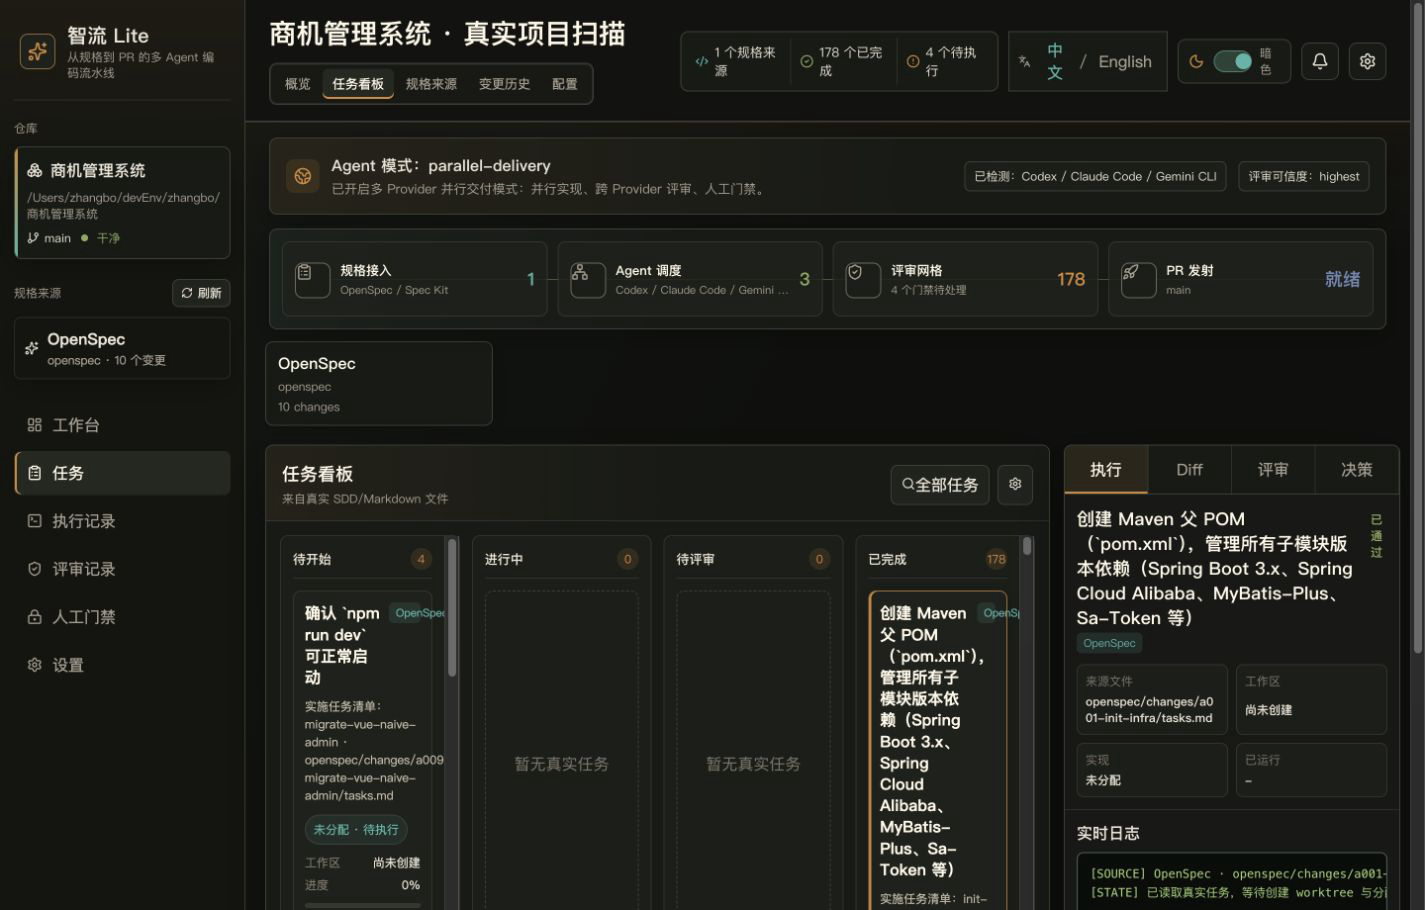
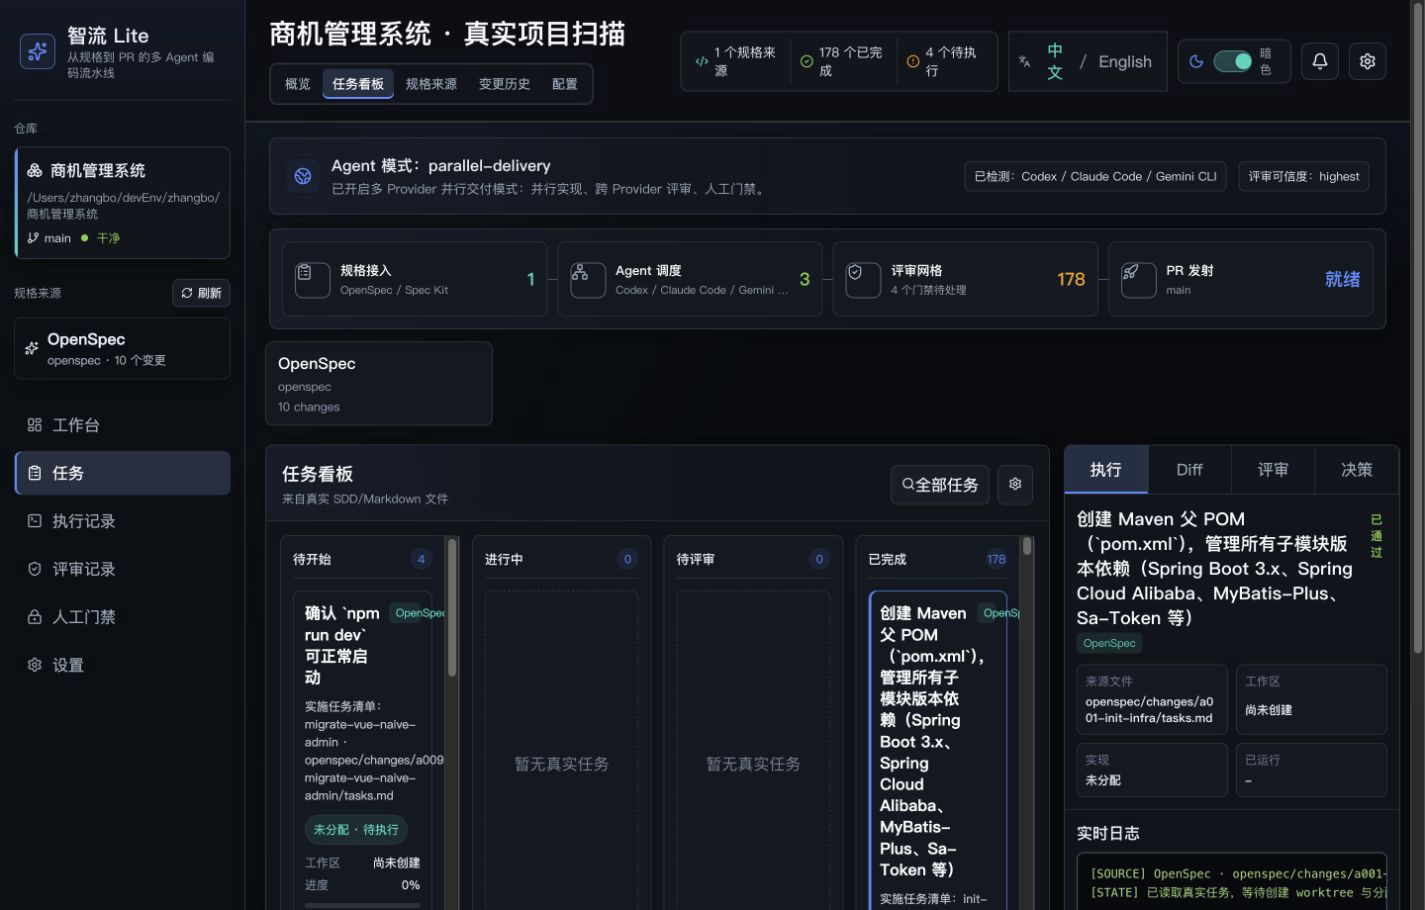
Refine editor-grade color palette

diff --git a/src/styles.css b/src/styles.css
@@ -2459,3 +2459,197 @@ progress::-webkit-progress-value {
     grid-template-columns: minmax(0, 1fr) minmax(300px, 340px);
   }
 }
+
+/* Color correction: cleaner editor-grade palette */
+:root,
+:root[data-theme="dark"] {
+  --bg: #090b10;
+  --body-gradient:
+    linear-gradient(180deg, rgba(91, 140, 255, 0.1), transparent 300px),
+    linear-gradient(120deg, rgba(45, 212, 191, 0.06), transparent 46%);
+  --shell: #0c0f14;
+  --topbar: rgba(12, 15, 20, 0.96);
+  --panel: #11151c;
+  --panel-2: #151a22;
+  --panel-3: #1b222c;
+  --panel-alpha: rgba(17, 21, 28, 0.98);
+  --surface: #1f2630;
+  --surface-soft: #141922;
+  --button-bg: #181e27;
+  --terminal-bg: #070a0f;
+  --progress-bg: #2a3340;
+  --line: #2a3441;
+  --line-soft: rgba(214, 224, 238, 0.1);
+  --text: #e7edf5;
+  --text-strong: #f8fafc;
+  --muted: #98a6b8;
+  --quiet: #738195;
+  --task-copy: #b8c2cf;
+  --cyan: #2dd4bf;
+  --green: #7ccf48;
+  --amber: #f59e0b;
+  --red: #f87171;
+  --blue: #5b8cff;
+  --shadow-heavy: 0 18px 52px rgba(0, 0, 0, 0.3);
+  --shadow-tight: 0 8px 24px rgba(0, 0, 0, 0.2);
+}
+
+:root[data-theme="light"] {
+  --bg: #f6f8fc;
+  --body-gradient:
+    linear-gradient(180deg, rgba(91, 140, 255, 0.1), transparent 280px),
+    linear-gradient(120deg, rgba(45, 212, 191, 0.055), transparent 48%);
+  --shell: #eef2f7;
+  --topbar: rgba(250, 252, 255, 0.96);
+  --panel: #fbfcff;
+  --panel-2: #f4f7fb;
+  --panel-3: #edf2f8;
+  --panel-alpha: rgba(251, 252, 255, 0.98);
+  --surface: #eaf0f7;
+  --surface-soft: #f3f6fb;
+  --button-bg: #f7f9fd;
+  --terminal-bg: #10151d;
+  --progress-bg: #d8e1ec;
+  --line: #d4dce8;
+  --line-soft: rgba(31, 41, 55, 0.1);
+  --text: #202938;
+  --text-strong: #0f172a;
+  --muted: #64748b;
+  --quiet: #8792a3;
+  --task-copy: #475569;
+  --cyan: #0f9f8f;
+  --green: #268f45;
+  --amber: #d97706;
+  --red: #dc2626;
+  --blue: #2563eb;
+  --shadow-heavy: 0 18px 48px rgba(15, 23, 42, 0.12);
+  --shadow-tight: 0 8px 22px rgba(15, 23, 42, 0.08);
+}
+
+body {
+  background: var(--body-gradient), var(--bg);
+}
+
+body::before {
+  background:
+    repeating-linear-gradient(90deg, color-mix(in srgb, var(--blue) 6%, transparent) 0 1px, transparent 1px 72px),
+    repeating-linear-gradient(0deg, color-mix(in srgb, var(--cyan) 5%, transparent) 0 1px, transparent 1px 72px);
+  mask-image: linear-gradient(180deg, rgba(0, 0, 0, 0.55), transparent 78%);
+}
+
+.app-shell {
+  background:
+    linear-gradient(90deg, color-mix(in srgb, var(--shell) 78%, transparent), transparent 30%),
+    transparent;
+}
+
+.sidebar {
+  border-right-color: var(--line);
+  background:
+    linear-gradient(180deg, color-mix(in srgb, var(--blue) 8%, transparent), transparent 250px),
+    var(--shell);
+}
+
+.brand-mark,
+.mode-icon {
+  border-color: color-mix(in srgb, var(--blue) 48%, var(--line));
+  background: color-mix(in srgb, var(--blue) 10%, var(--panel));
+  color: var(--blue);
+}
+
+.repo-box::before {
+  background: linear-gradient(180deg, var(--blue), var(--cyan));
+}
+
+.change-item.active,
+.nav-list button.active {
+  color: var(--text-strong);
+  background: color-mix(in srgb, var(--blue) 9%, var(--surface));
+  box-shadow: inset 2px 0 0 var(--blue);
+}
+
+.tabs button[data-state="active"],
+.tabs .active,
+.inspector-tabs button[data-state="active"],
+.inspector-tabs .active {
+  background: color-mix(in srgb, var(--blue) 10%, var(--surface));
+  color: var(--text-strong);
+  box-shadow: inset 0 -2px 0 var(--blue);
+}
+
+.mode-banner,
+.pipeline-rail,
+.panel-header {
+  background:
+    linear-gradient(90deg, color-mix(in srgb, var(--blue) 6%, transparent), transparent 55%),
+    var(--panel);
+}
+
+.mode-banner::after {
+  background: linear-gradient(90deg, transparent, color-mix(in srgb, var(--cyan) 65%, transparent), transparent);
+}
+
+.pipeline-spine,
+progress::-webkit-progress-value {
+  background: linear-gradient(90deg, var(--blue), var(--cyan), var(--green), var(--amber));
+}
+
+.pipeline-stage,
+.task-card,
+.lane,
+.source-card,
+.summary-tile,
+.settings-section,
+.review-row,
+.detail-grid span,
+.action-output,
+.source-table button,
+.task-list-row.as-button {
+  background: var(--surface-soft);
+}
+
+.lane-title {
+  background: var(--surface-soft);
+}
+
+.lane-title span {
+  color: var(--blue);
+  background: color-mix(in srgb, var(--blue) 10%, transparent);
+}
+
+.task-card:hover {
+  border-color: color-mix(in srgb, var(--blue) 48%, var(--line));
+}
+
+.task-card.selected {
+  border-color: color-mix(in srgb, var(--blue) 62%, var(--line));
+  box-shadow:
+    inset 2px 0 0 var(--blue),
+    var(--shadow-tight);
+}
+
+.task-card-head span,
+.detail-title span,
+.agent-pill {
+  color: var(--cyan);
+  background: color-mix(in srgb, var(--cyan) 11%, transparent);
+}
+
+.theme-control-icon {
+  color: var(--blue);
+}
+
+.theme-switch[data-state="checked"] {
+  border-color: color-mix(in srgb, var(--cyan) 55%, var(--line));
+  background: color-mix(in srgb, var(--cyan) 18%, var(--surface));
+}
+
+.decision-actions .primary {
+  border-color: color-mix(in srgb, var(--blue) 58%, var(--line));
+  background: color-mix(in srgb, var(--blue) 22%, var(--panel-2));
+}
+
+.decision-actions .secondary {
+  border-color: color-mix(in srgb, var(--amber) 58%, var(--line));
+  background: color-mix(in srgb, var(--amber) 10%, transparent);
+}